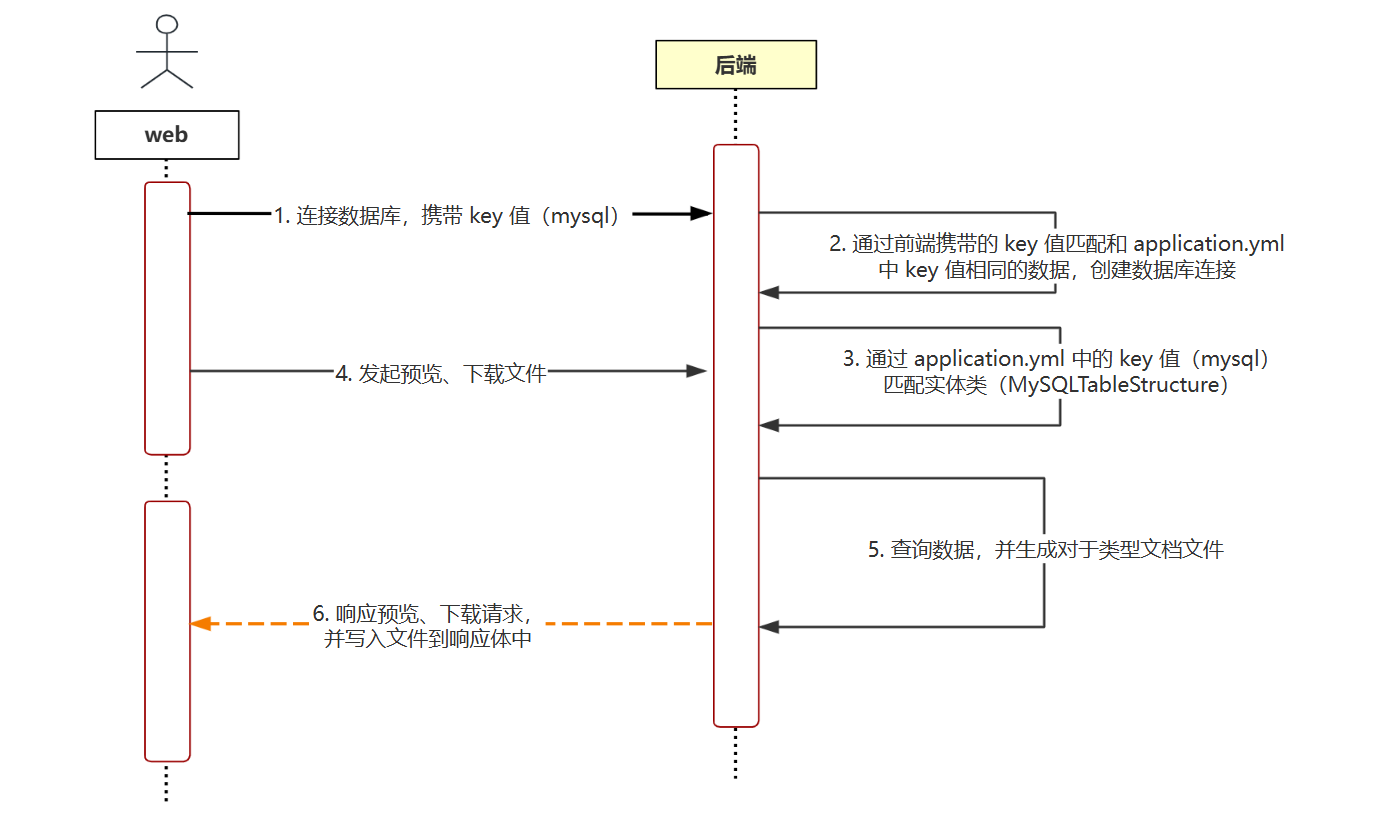
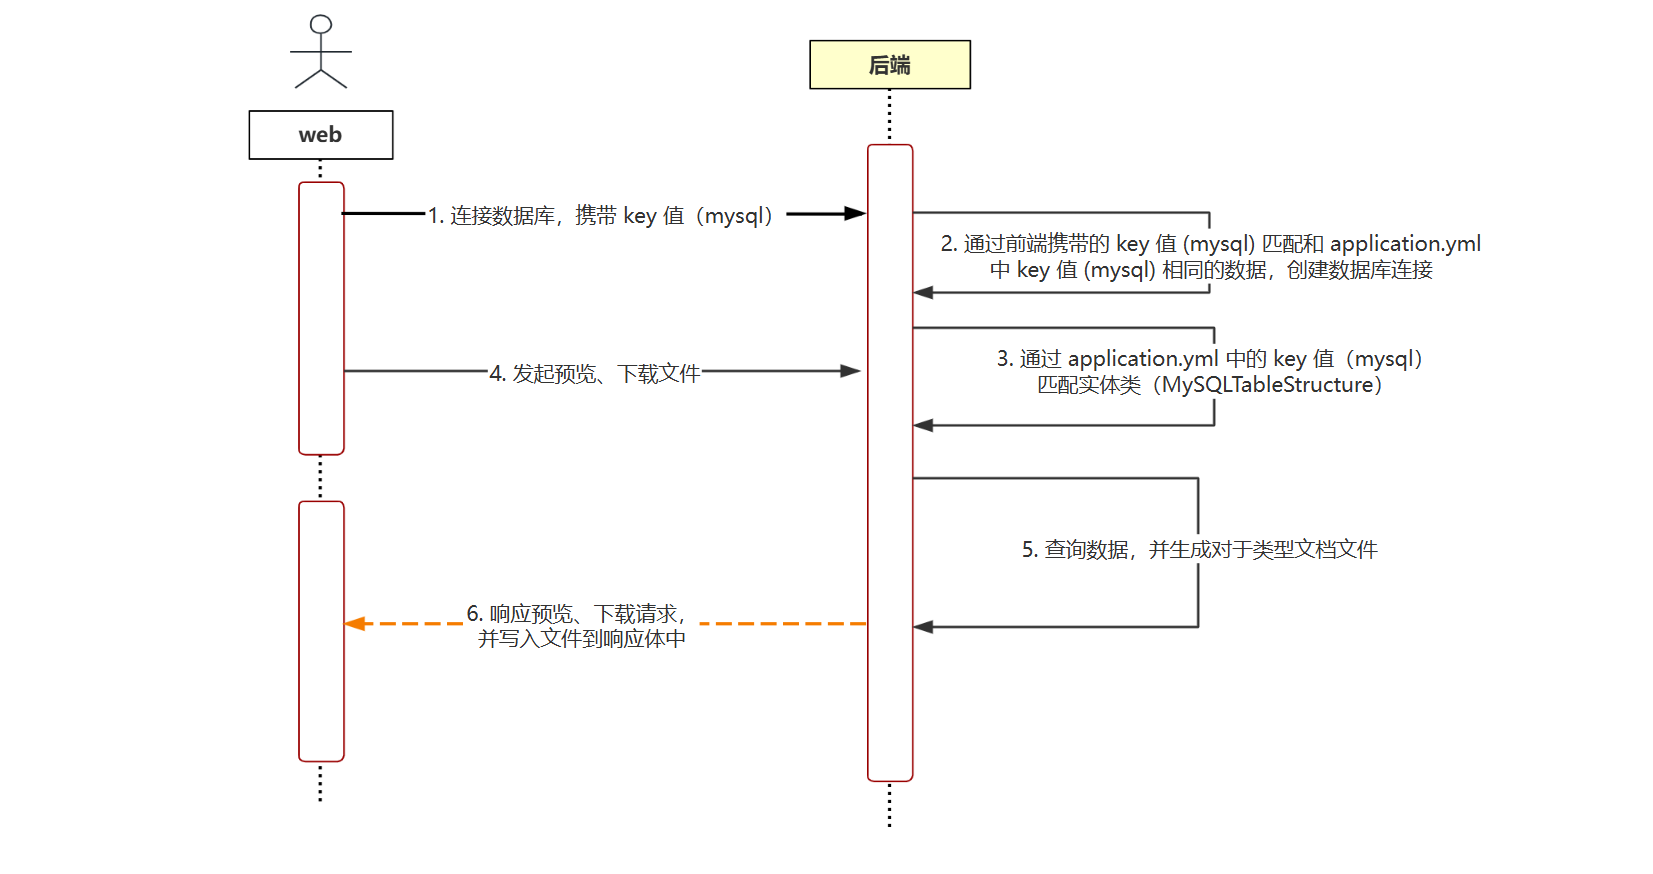
新增格式编辑功能

diff --git a/README.md b/README.md
@@ -142,6 +142,8 @@
 
 ### 时序图
 ![image-20230719013403179](src/main/resources/static/images/时序图.png)
+> 说明：以 MySQL 数据库为示例
+
 
 ### 编码
 #### 1. 配置数据源及查询SQL语句
